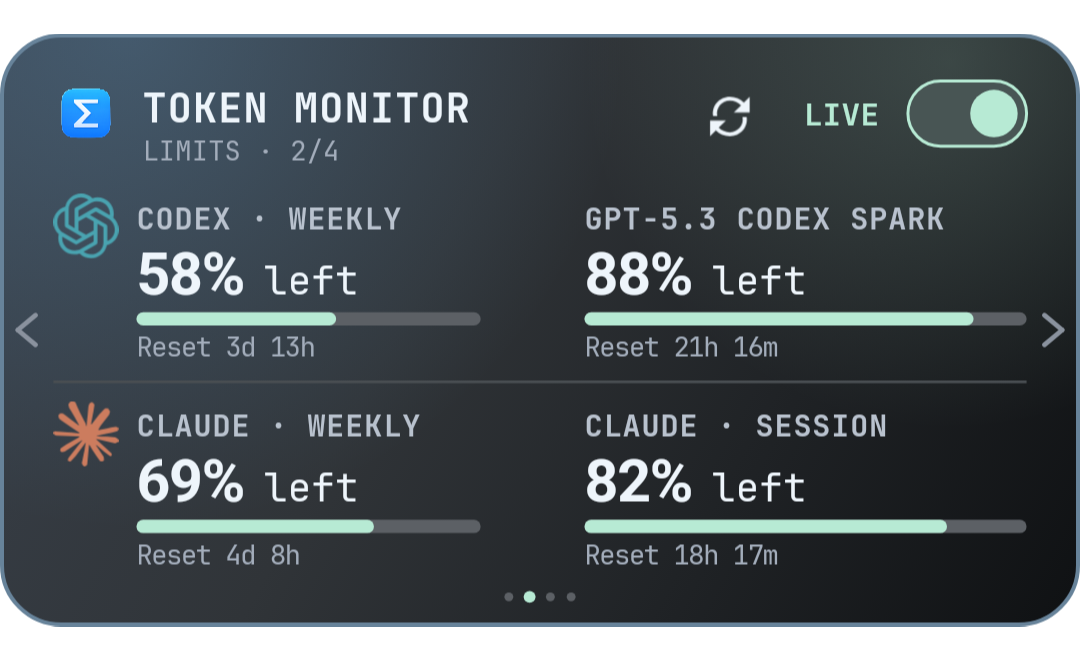
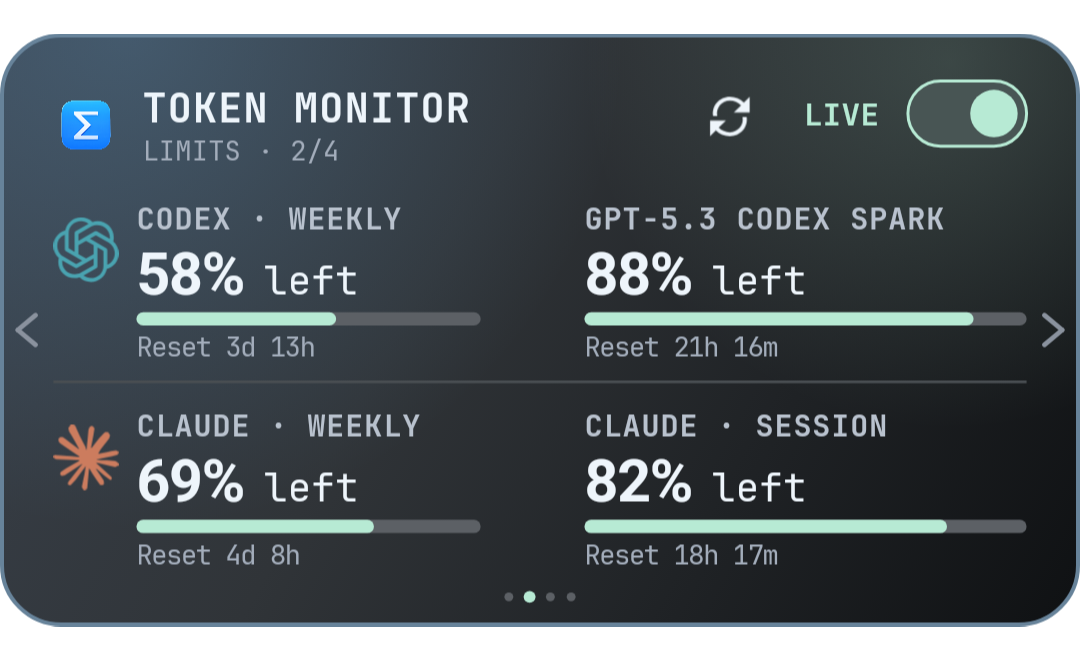
Space Breakdown rows and center widget marks

Changed region(s): [[0.0306, 0.2727, 0.1222, 0.4242], [0.0306, 0.6061, 0.1222, 0.7576], [0.0611, 0.1212, 0.1222, 0.2424]]

diff --git a/app/src/main/java/io/github/theminionooo/tokenmonitor/widget/WidgetDeckRenderer.kt b/app/src/main/java/io/github/theminionooo/tokenmonitor/widget/WidgetDeckRenderer.kt
@@ -335,24 +335,22 @@ private class DeckCanvas(
             }
             return
         }
-        data.tools.take(g.TOOL_ROW_TOPS.size).forEachIndexed { index, row ->
-            val top = g.TOOL_ROW_TOPS[index]
+        drawBreakdownRows(data.tools, left, g.TOOL_NAME_X, g.TOOL_RIGHT, R.drawable.view_tool) { it.displayName() }
+        drawBreakdownRows(data.models, g.MODELS_X, g.MODEL_NAME_X, right, R.drawable.view_model) { it }
+    }
+
+    /** One dense column: mark, name and share on the first line, tokens and cost on the second, then the bar. */
+    private fun drawBreakdownRows(rows: List<WidgetDeckUsageRow>, columnLeft: Float, nameX: Float, columnRight: Float, fallbackMark: Int, label: (String) -> String) {
+        val g = WidgetDeckGrid.Breakdown
+        rows.take(g.ROW_TOPS.size).forEachIndexed { index, row ->
+            val top = g.ROW_TOPS[index]
             val color = vendorColor(row.name, index)
-            drawMark(row.name, left, top - 1f, g.TOOL_MARK_SIZE, color, R.drawable.view_tool)
-            val shareWidth = text(sharePercent(row.share), g.TOOL_RIGHT, top + g.NAME_BASELINE_OFFSET, bodyStrong, ink, Paint.Align.RIGHT)
-            text(row.name.displayName(), g.TOOL_NAME_X, top + g.NAME_BASELINE_OFFSET, body, ink, maxWidth = g.TOOL_RIGHT - shareWidth - 8f - g.TOOL_NAME_X)
+            drawMark(row.name, columnLeft, top + g.MARK_OFFSET, g.MARK_SIZE, color, fallbackMark)
+            val shareWidth = text(sharePercent(row.share), columnRight, top + g.NAME_BASELINE_OFFSET, bodyStrong, ink, Paint.Align.RIGHT)
+            text(label(row.name), nameX, top + g.NAME_BASELINE_OFFSET, body, ink, maxWidth = columnRight - shareWidth - g.SHARE_GAP - nameX)
             val detail = compactFigure(row.tokens) + if (row.costUsd > 0) " · ${formatMoney(row.costUsd)}" else ""
-            text(detail, g.TOOL_NAME_X, top + g.TOOL_DETAIL_OFFSET, secondary, muted, maxWidth = g.TOOL_RIGHT - g.TOOL_NAME_X)
-            drawBar(RectF(left, top + g.TOOL_BAR_TOP_OFFSET, g.TOOL_RIGHT, top + g.TOOL_BAR_BOTTOM_OFFSET), row.share, color)
-        }
-        data.models.take(g.MODEL_ROW_TOPS.size).forEachIndexed { index, row ->
-            val top = g.MODEL_ROW_TOPS[index]
-            val color = vendorColor(row.name, index)
-            drawMark(row.name, g.MODELS_X, top, g.MODEL_MARK_SIZE, color, R.drawable.view_model)
-            val shareWidth = text(sharePercent(row.share), right, top + g.NAME_BASELINE_OFFSET, bodyStrong, ink, Paint.Align.RIGHT)
-            text(row.name, g.MODEL_NAME_X, top + g.NAME_BASELINE_OFFSET, body, ink, maxWidth = right - shareWidth - 8f - g.MODEL_NAME_X)
-            text(compactFigure(row.tokens), g.MODEL_NAME_X, top + g.MODEL_TOKENS_OFFSET, secondary, muted)
-            drawBar(RectF(g.MODELS_X, top + g.MODEL_BAR_TOP_OFFSET, right, top + g.MODEL_BAR_BOTTOM_OFFSET), row.share, color)
+            text(detail, nameX, top + g.DETAIL_BASELINE_OFFSET, secondary, muted, maxWidth = columnRight - nameX)
+            drawBar(RectF(columnLeft, top + g.BAR_TOP_OFFSET, columnRight, top + g.BAR_BOTTOM_OFFSET), row.share, color)
         }
     }
 
@@ -382,8 +380,14 @@ private class DeckCanvas(
         vline(g.STAT_DIVIDER_X, g.STAT_DIVIDER_TOP, g.STAT_DIVIDER_BOTTOM, line)
         text(data.activeDays.toString(), g.RIGHT_X, g.STAT_VALUE_BASELINE, stat, ink)
         fitCaption("Active days", "Days", g.RIGHT_X, g.STAT_DIVIDER_X - g.RIGHT_X - 6f)
-        text(compactFigure(data.messagesToday), g.STAT_RIGHT_X, g.STAT_VALUE_BASELINE, stat, ink)
-        fitCaption("Messages today", "Messages", g.STAT_RIGHT_X, right - g.STAT_RIGHT_X)
+        if (data.messagesToday > 0) {
+            text(compactFigure(data.messagesToday), g.STAT_RIGHT_X, g.STAT_VALUE_BASELINE, stat, ink)
+            fitCaption("Messages today", "Messages", g.STAT_RIGHT_X, right - g.STAT_RIGHT_X)
+        } else {
+            // The Hub reports no message count for today; a zero here would be a false figure.
+            text(formatMoney(data.snapshot?.today?.costUsd ?: 0.0), g.STAT_RIGHT_X, g.STAT_VALUE_BASELINE, stat, ink)
+            fitCaption("Cost today", "Cost", g.STAT_RIGHT_X, right - g.STAT_RIGHT_X)
+        }
     }
 
     private fun drawWeekChart(history: List<HistoryPoint>, end: LocalDate) {

diff --git a/app/src/test/java/io/github/theminionooo/tokenmonitor/widget/WidgetDeckGridTest.kt b/app/src/test/java/io/github/theminionooo/tokenmonitor/widget/WidgetDeckGridTest.kt
@@ -26,10 +26,18 @@ class WidgetDeckGridTest {
         assertTrue(WidgetDeckGrid.Overview.STATS_TOP + 2 * WidgetDeckGrid.Overview.STATS_PITCH + WidgetDeckGrid.Overview.STAT_CAPTION_OFFSET < WidgetDeckGrid.Overview.BAR_TOP)
         assertTrue(WidgetDeckGrid.Overview.WEEK_BASELINE < header.DOTS_Y)
         assertTrue(WidgetDeckGrid.Limits.ROW_TOPS.last() + WidgetDeckGrid.Limits.RESET_OFFSET < header.DOTS_Y)
-        assertTrue(WidgetDeckGrid.Breakdown.TOOL_ROW_TOPS.last() + WidgetDeckGrid.Breakdown.TOOL_BAR_BOTTOM_OFFSET < header.DOTS_Y)
-        assertTrue(WidgetDeckGrid.Breakdown.MODEL_ROW_TOPS.last() + WidgetDeckGrid.Breakdown.MODEL_BAR_BOTTOM_OFFSET < header.DOTS_Y)
+        assertTrue(WidgetDeckGrid.Breakdown.ROW_TOPS.last() + WidgetDeckGrid.Breakdown.BAR_BOTTOM_OFFSET < header.DOTS_Y)
         assertTrue(WidgetDeckGrid.Activity.DAY_LABEL_BASELINE < header.DOTS_Y)
         assertTrue(WidgetDeckGrid.Activity.STAT_CAPTION_BASELINE < header.DOTS_Y)
+    }
+
+    @Test fun `marks are centered on the text block beside them`() {
+        val header = WidgetDeckGrid.Header
+        val brandCapTop = header.BRAND_BASELINE - WidgetDeckGrid.Type.BRAND * 0.73f
+        assertEquals((brandCapTop + header.PAGE_BASELINE) / 2f, header.ICON_Y + header.ICON_SIZE / 2f, 1.5f)
+        val limits = WidgetDeckGrid.Limits
+        val titleCapTop = limits.TITLE_OFFSET - limits.TITLE_SIZE * 0.73f
+        assertEquals((titleCapTop + limits.VALUE_OFFSET) / 2f, limits.MARK_OFFSET + limits.MARK_SIZE / 2f, 1.5f)
     }
 
     @Test fun `stat rows leave room for a value and its caption`() {
@@ -39,10 +47,17 @@ class WidgetDeckGridTest {
         assertTrue(overview.STAT_CAPTION_OFFSET - overview.STAT_VALUE_OFFSET >= WidgetDeckGrid.Type.CAPTION)
     }
 
-    @Test fun `breakdown tool rows keep supporting figures below the identity line`() {
+    @Test fun `breakdown rows keep the detail line clear of the name's descenders and the bar`() {
         val breakdown = WidgetDeckGrid.Breakdown
-        assertTrue(breakdown.TOOL_DETAIL_OFFSET > breakdown.NAME_BASELINE_OFFSET)
-        assertTrue(breakdown.TOOL_DETAIL_OFFSET < breakdown.TOOL_BAR_TOP_OFFSET)
+        // Descenders reach about 2.5 units below the 10-unit name; the 9-unit detail line rises about 6.5 above its baseline.
+        assertTrue(breakdown.DETAIL_BASELINE_OFFSET - WidgetDeckGrid.Type.SECONDARY * 0.72f >= breakdown.NAME_BASELINE_OFFSET + 2.5f)
+        assertTrue(breakdown.BAR_TOP_OFFSET - breakdown.DETAIL_BASELINE_OFFSET >= 4f)
+        // The mark's center sits between the name's cap top (baseline − 7.3) and the detail baseline.
+        val markCenter = breakdown.MARK_OFFSET + breakdown.MARK_SIZE / 2f
+        assertTrue(markCenter > breakdown.NAME_BASELINE_OFFSET - 7.3f && markCenter < breakdown.DETAIL_BASELINE_OFFSET)
+        assertEquals((breakdown.NAME_BASELINE_OFFSET - 7.3f + breakdown.DETAIL_BASELINE_OFFSET) / 2f, markCenter, 1.5f)
+        val pitch = breakdown.ROW_TOPS[1] - breakdown.ROW_TOPS[0]
+        assertTrue(pitch - breakdown.BAR_BOTTOM_OFFSET >= 6f)
         assertTrue(breakdown.TOOL_RIGHT - breakdown.TOOL_NAME_X >= 100f)
     }
 

diff --git a/app/src/main/java/io/github/theminionooo/tokenmonitor/widget/WidgetDeckGrid.kt b/app/src/main/java/io/github/theminionooo/tokenmonitor/widget/WidgetDeckGrid.kt
@@ -20,7 +20,8 @@ internal object WidgetDeckGrid {
 
     object Header {
         const val ICON_X = 18f
-        const val ICON_Y = 16f
+        /** Centered on the brand and page lines together, not on the brand alone. */
+        const val ICON_Y = 20f
         const val ICON_SIZE = 22f
         const val TEXT_X = 48f
         const val BRAND_BASELINE = 30f
@@ -73,7 +74,8 @@ internal object WidgetDeckGrid {
         val ROW_TOPS = floatArrayOf(52f, 122f)
         const val RULE_Y = 117.5f
         const val MARK_SIZE = 22f
-        const val MARK_OFFSET = 2f
+        /** Centered on the title and percentage lines together. */
+        const val MARK_OFFSET = 10f
         const val LEFT_TEXT_X = 46f
         const val LEFT_RIGHT_EDGE = 162f
         const val RIGHT_TEXT_X = 197f
@@ -102,20 +104,19 @@ internal object WidgetDeckGrid {
         const val SPARSE_BAR_TOP = 142f
         const val SPARSE_BAR_BOTTOM = 148f
         const val SPARSE_COST_BASELINE = 163f
-        val TOOL_ROW_TOPS = floatArrayOf(68f, 108f, 148f)
-        const val TOOL_MARK_SIZE = 16f
+        /** Both columns share one row rhythm so rows line up across the divider. */
+        val ROW_TOPS = floatArrayOf(68f, 108f, 148f)
+        const val MARK_SIZE = 16f
         const val TOOL_NAME_X = 40f
         const val TOOL_RIGHT = 168f
-        const val TOOL_DETAIL_OFFSET = 20f
-        const val TOOL_BAR_TOP_OFFSET = 24f
-        const val TOOL_BAR_BOTTOM_OFFSET = 28f
-        val MODEL_ROW_TOPS = floatArrayOf(68f, 98f, 128f, 158f)
-        const val MODEL_MARK_SIZE = 14f
-        const val MODEL_NAME_X = 212f
-        const val MODEL_TOKENS_OFFSET = 19f
-        const val MODEL_BAR_TOP_OFFSET = 23f
-        const val MODEL_BAR_BOTTOM_OFFSET = 26.5f
-        const val NAME_BASELINE_OFFSET = 11f
+        const val MODEL_NAME_X = 214f
+        /** The mark is centered on the two text lines, not on the name alone. */
+        const val MARK_OFFSET = 4f
+        const val NAME_BASELINE_OFFSET = 10f
+        const val DETAIL_BASELINE_OFFSET = 24f
+        const val SHARE_GAP = 8f
+        const val BAR_TOP_OFFSET = 29f
+        const val BAR_BOTTOM_OFFSET = 33f
     }
 
     object Activity {

diff --git a/docs/WIDGET_SPEC.md b/docs/WIDGET_SPEC.md
@@ -83,7 +83,7 @@ All colors come from the dashboard `Palette` for the active theme.
 
 | Element | Position (units) |
 | --- | --- |
-| App icon | 22×22 at (18, 16) |
+| App icon | 22×22 at (18, 20), centered on the brand and page lines |
 | Brand "TOKEN MONITOR" | x 48, baseline 30 |
 | Page "OVERVIEW · 1/4" | x 48, baseline 43 |
 | Refresh icon | 16×16 at (238, 20) |
@@ -135,7 +135,7 @@ left. At most two providers.
 | Row 1 top | 52 |
 | Row 2 top | 122 |
 | Horizontal rule between rows | y 117.5, x 18 … 346 |
-| Provider mark | 22×22 at (18, row top + 2), vendor color |
+| Provider mark | 22×22 at (18, row top + 10), centered on the title and percentage lines, vendor color |
 | Left cell text x | 46 |
 | Right cell text x | 197 |
 | Left cell right edge | 162 |
@@ -179,24 +179,20 @@ When either list contains more than one row, use the dense table:
 | Column divider | x 181, y 54 … 186, line color |
 | "TOOLS" section | x 18, baseline 60 |
 | "MODELS" section | x 192, baseline 60 |
-| Tool rows | up to 3, tops at 68, 108, 148 |
-| Tool mark | 16×16 at (18, row top − 1) |
-| Tool name (body) | x 40, baseline row top + 11, ellipsized 8 units before the share |
-| Tool share (body strong) | right edge 168, baseline row top + 11 |
-| Tool detail (secondary) | x 40, baseline row top + 20; token total followed by cost when reported |
-| Tool bar | x 18 … 168, y row top + 24 … row top + 28, radius 2 |
-| Model rows | up to 4, tops at 68, 98, 128, 158 |
-| Model mark | 14×14 at (192, row top) |
-| Model name (body) | x 212, baseline row top + 11, ellipsized 8 units before the share |
-| Model share (body strong) | right edge 346, baseline row top + 11 |
-| Model tokens (secondary) | x 212, baseline row top + 19 |
-| Model bar | x 192 … 346, y row top + 23 … row top + 26.5, radius 1.75 |
+| Rows, both columns | up to 3, tops at 68, 108, 148 |
+| Mark | 16×16 at (column left, row top + 4), centered on the two text lines; tools column left 18, models column left 192 |
+| Name (body) | x 40 for tools, x 214 for models, baseline row top + 10, ellipsized 8 units before the share |
+| Share (body strong) | right edge 168 for tools, 346 for models, baseline row top + 10 |
+| Detail "2.5M · $1.18" (secondary) | same x as the name, baseline row top + 24; the cost is omitted when it is not reported |
+| Bar | column left … column right, y row top + 29 … row top + 33, radius 2 |
 
-Tool and model rows use the same two-line hierarchy: identity and share on the
-first line, supporting figures on the second. The tools column prints the token
-total followed by cost when cost is reported; the models column prints the token
-total. This removes the ambiguous token/share run at One UI's installed widget
-size without shrinking text or truncating ordinary tool names.
+Both columns use the same two-line row: identity and share on the first line,
+tokens and cost on the second. The concept put tokens and share on one line,
+but JetBrains Mono is wider than the concept's face and the phone showed that
+line crowded; a second line fourteen units below the first keeps the name's
+descenders clear of the figures, and the row sits high in its slot so the air
+is under the bar, not above the name. Three rows per column keep the rows aligned
+across the divider; a fourth model is not shown.
 
 Shares under one percent print as "<1%". Bars use the row's vendor color.
 Fewer rows leave the remaining space empty; row pitch never changes.
@@ -223,8 +219,8 @@ Fewer rows leave the remaining space empty; row pitch never changes.
 | Active days (stat) | x 226, baseline 172 |
 | "ACTIVE DAYS" caption, or "DAYS" when it does not fit | x 226, baseline 184 |
 | Stat divider | x 286, y 158 … 186 |
-| Messages today (stat) | x 292, baseline 172 |
-| "MESSAGES TODAY" caption, or "MESSAGES" when it does not fit | x 292, baseline 184 |
+| Messages today (stat), or today's cost when the Hub reports no messages | x 292, baseline 172 |
+| "MESSAGES TODAY" caption, or "MESSAGES" when it does not fit; "COST TODAY" or "COST" for the cost fallback | x 292, baseline 184 |
 
 A day with no observation draws no bar and a dash-length stub in the strong
 line color. The axis top is three times the clean step nearest above a third of

diff --git a/docs/VALIDATION.md b/docs/VALIDATION.md
@@ -1,8 +1,38 @@
 # Validation
 
 The current public release is Android **v0.56.0 r4** (`560004`). The current
-source candidate and latest phone-verified build is **v0.60.0 r6** (`600006`).
+source candidate and latest phone-verified build is **v0.60.0 r7** (`600007`).
 It remains unpublished pending maintainer approval.
+
+## v0.60.0 r7 candidate
+
+A phone inspection of r6 on September 22, 2026 with real two-tool, three-model
+data showed the dense Breakdown rows crowded: the model names' descenders
+touched the token line beneath them, and the tool line packed name, tokens and
+share together. r7 gives both columns one two-line row with fourteen units
+between the lines and aligns three rows across the divider. The same inspection
+showed "0 MESSAGES" on Activity because the Hub reported no message count for
+the day; r7 shows today's cost in that slot instead of a false zero.
+
+The specification was updated before the renderer. 83 JVM tests, lint with no
+errors, the debug build, the seven-test emulator design run, the sixteen-test
+gallery capture and the documentation link check pass.
+
+The signed r7 APK reports package `io.github.theminionooo.tokenmonitor`, version
+code `600007`, certificate SHA-256
[1 lines of base64/hex data omitted]
+since r3), and file SHA-256
[1 lines of base64/hex data omitted]
+installed over r6 on the Galaxy S25 Ultra without uninstalling; the first-install
+time (`2026-09-21 11:03:41`) and the placed widget were preserved. All four
+pages were captured on One UI at the 406×216 dp allocation and are in
+`local-private/widget-r7-phone-2026-09-22/`. Breakdown shows the two-tool,
+three-model state with clear rows in both columns; Activity shows the cost
+fallback in place of the missing message count; Overview and Limits are
+unchanged from r6. The owner reviewed the Breakdown render twice during the work: the row
+spacing was widened, then the vendor mark was lowered to center on the two
+text lines, and the same centering was applied to the header app icon and the
+Limits provider marks, each time before a signed rebuild and phone install.
 
 ## v0.60.0 r6 candidate
 

diff --git a/README.md b/README.md
@@ -122,7 +122,7 @@ The Hub deliberately does not carry prompt or response text, so the phone never 
 
 You need Android 8.0 or newer and a desktop running Token Monitor v0.60.0 with Hub hosting on.
 
-1. Follow [Installing and updating](docs/INSTALL.md). The signed v0.56.0 r4 APK remains the latest public release; v0.60.0 r6 is the current phone-verified candidate and remains unpublished.
+1. Follow [Installing and updating](docs/INSTALL.md). The signed v0.56.0 r4 APK remains the latest public release; v0.60.0 r7 is the current phone-verified candidate and remains unpublished.
 2. Put [Tailscale](https://tailscale.com/) on the desktop and the phone, signed into the same tailnet.
 3. In desktop Token Monitor, open **Settings → Multi-device Sync → Host Hub** and copy the address and shared secret.
 4. In the app, type the address that starts with `100.`, paste the secret, tap **Connect**. Just the numbers are enough.
@@ -135,8 +135,8 @@ You need Android 8.0 or newer and a desktop running Token Monitor v0.60.0 with H
 | | |
 | --- | --- |
 | Current Android release | [`v0.56.0-r4`](https://github.com/The-Minion-oOo/token-monitor-android/releases/tag/android-v0.56.0-r4) |
-| Current source candidate | `v0.60.0-r6` ([candidate notes](docs/releases/android-v0.60.0-r6.md)) |
-| Latest phone-verified build | `v0.60.0-r6` ([candidate notes](docs/releases/android-v0.60.0-r6.md)) |
+| Current source candidate | `v0.60.0-r7` ([candidate notes](docs/releases/android-v0.60.0-r7.md)) |
+| Latest phone-verified build | `v0.60.0-r7` ([candidate notes](docs/releases/android-v0.60.0-r7.md)) |
 | Verified desktop baseline | Token Monitor `v0.60.0` |
 | Upstream commit | [`8031cf3`](https://github.com/Javis603/token-monitor/commit/8031cf3b75c7f354db8a990a983999c69086da28) |
 

diff --git a/docs/releases/android-v0.60.0-r7.md b/docs/releases/android-v0.60.0-r7.md
@@ -1,0 +1,27 @@
+# Token Monitor for Android v0.60.0 r7
+
+This revision corrects two things a phone inspection of r6 showed with real
+multi-tool data.
+
+## What changed
+
+- Dense Breakdown rows use one composition in both columns: name and share on
+  the first line, tokens and cost on the second, then the bar, with enough
+  room between the lines that nothing touches. Three rows per column line up
+  across the divider. The one-tool/one-model sparse layout from r6 is unchanged.
+- The app icon in the header, the Limits provider marks and the Breakdown
+  vendor marks are centered on the text beside them; they used to sit high.
+- Activity shows today's cost in its second stat when the Hub reports no message
+  count for the day. A zero there was not a real figure.
+
+## Compatibility
+
+- Desktop Token Monitor: v0.60.0
+- Android: 8.0 or newer
+- Upgrade: version code `600007` installs over r6 and earlier signed builds
+  without removing pairing, settings, or widget state. Do not uninstall first.
+
+The app remains read-only. Page changes are local and add no background timer,
+network request, service, or wake lock.
+
+See [Install and update](../INSTALL.md) for installation and checksum instructions.

diff --git a/CHANGELOG.md b/CHANGELOG.md
@@ -3,8 +3,15 @@
 Android releases use the desktop protocol version plus an Android revision.
 Unreleased work stays under **Next release** until its signed APK is published.
 
-## Next release — v0.60.0 r6
+## Next release — v0.60.0 r7
 
+- Give both dense Breakdown columns one two-line row with room between the
+  lines: name and share, then tokens and cost, then the bar. Rows line up
+  across the divider and nothing touches its neighbour.
+- Center the app icon, the Limits provider marks and the Breakdown vendor
+  marks on the text lines beside them instead of on the first line alone.
+- Show today's cost in the Activity stat slot when the Hub reports no message
+  count for the day, instead of a false "0 messages".
 - Give the common one-tool/one-model Breakdown state a dedicated feature
   layout with large, aligned token and share figures, explicit captions, and
   full-width bars. Dense multi-row data keeps the compact table layout.

diff --git a/docs/INSTALL.md b/docs/INSTALL.md
@@ -13,7 +13,7 @@ A signed v0.56.0 r4 APK remains available from the public
 Its automated, emulator, and signing checks pass. Samsung-specific installation
 and launcher inspection status is recorded in [Validation](VALIDATION.md).
 
-The current source is the phone-verified v0.60.0 r6 candidate. It is not a public
+The current source is the phone-verified v0.60.0 r7 candidate. It is not a public
 release until the signed APK appears on the Releases page.
 
 To build the current source, install JDK 17 and Android SDK 37, then run:
@@ -41,7 +41,7 @@ There is no Play Store or F-Droid listing.
 Each signed release will include an APK and a `.sha256` file. Compare the hash:
 
 ```powershell
-Get-FileHash .\token-monitor-android-v0.60.0-r6.apk -Algorithm SHA256
+Get-FileHash .\token-monitor-android-v0.60.0-r7.apk -Algorithm SHA256
 ```
 
 A matching checksum detects download corruption; download both files from the

diff --git a/docs/RELEASING.md b/docs/RELEASING.md
@@ -8,8 +8,8 @@ Android-only releases keep `versionName` and increment the final three digits of
 
 ```text
 versionName: v0.60.0
-versionCode: 600006
-release tag: android-v0.60.0-r6
+versionCode: 600007
+release tag: android-v0.60.0-r7
 ```
 
 A newly verified desktop version updates the visible version and starts its
